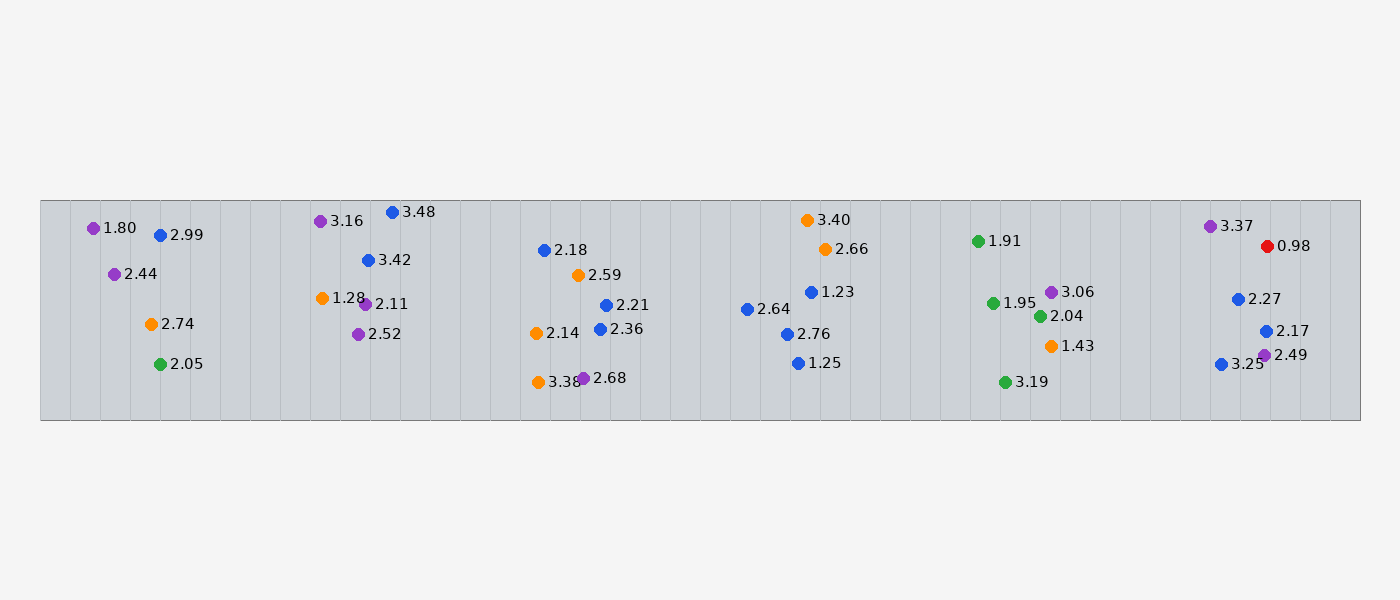
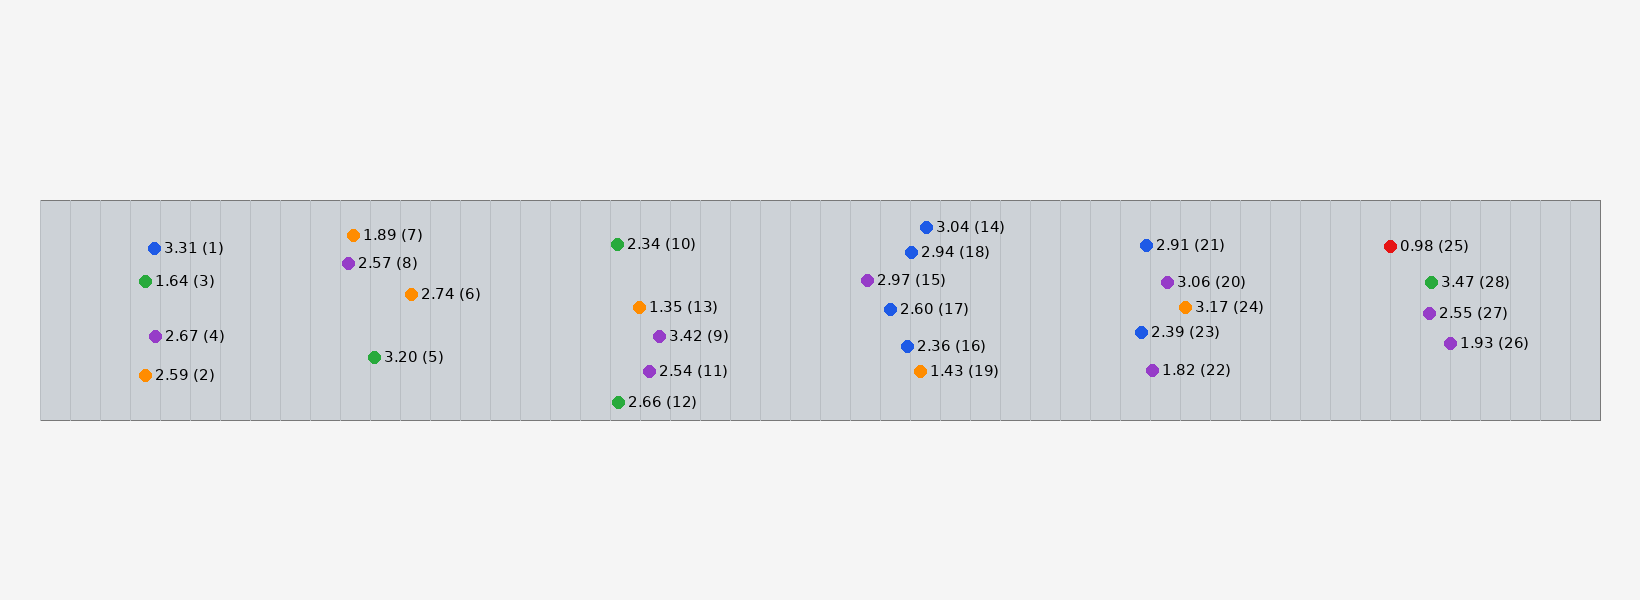
PostFX2D: roll back clean mode; parse parenthesized index into its own column
- Remove erase-non-minimum option (quality not sufficient)
- Keep label-to-point pairing fix (edge-midpoint distance)
- '(n)' in labels is parsed as index; summary column '그룹 최대' replaced by '인덱스'
- Sample image labels now include index; self-test checks index reading

Claude-Session: https://claude.ai/code/session_01WXaUVbhgdokowSVm3PfoQF

diff --git a/postfx2d/postfx2d/core.py b/postfx2d/postfx2d/core.py
@@ -48,7 +48,6 @@ class Settings:
     group_alpha: float = 0.18
     highlight_alpha: float = 0.45
     pad: int = 14
-    clean: bool = False             # True = 최소 지점 외 점/숫자 지우기
 
 
 @dataclass
@@ -58,6 +57,7 @@ class Point:
     y: float
     r: float
     value: float | None = None
+    index: int | None = None
     text: str = ""
     text_box: tuple[int, int, int, int] | None = None  # x0,y0,x1,y1
     group: int = -1
@@ -116,31 +116,71 @@ def _get_ocr():
     return _ocr_engine
 
 
-def read_numbers(img: np.ndarray) -> list[tuple[float, str, tuple[int, int, int, int]]]:
-    """이미지 안의 숫자 텍스트 → (값, 원문, box). 작은 글씨 대비 2배 확대 후 인식."""
+IDX_RE = re.compile(r"[(\[{]\s*(\d+)\s*[)\]}]?|(?:(?<=\s)|^)(\d+)\s*[)\]}]")
+
+
+def parse_label(text: str) -> tuple[float | None, int | None]:
+    """'1.28 (12)' → (1.28, 12). 괄호 안 숫자 = 인덱스, 나머지 숫자 = 안전율."""
+    t = text.strip().replace("O", "0").replace("o", "0")
+    idx = None
+    m = IDX_RE.search(t)
+    if m:
+        idx = int(m.group(1) or m.group(2))
+        t = t[:m.start()] + " " + t[m.end():]
+    t = re.sub(r"(?<=[\d.,])\s+(?=[\d.,])", "", t)   # '1. 28' 처럼 쪼개진 숫자 붙이기
+    val = None
+    for v in NUM_RE.finditer(t):
+        try:
+            val = float(v.group().replace(",", "."))
+            break
+        except ValueError:
+            pass
+    return val, idx
+
+
+def read_numbers(img: np.ndarray) -> list[dict]:
+    """이미지 안의 라벨 → [{value, index, text, box}]. 작은 글씨 대비 2배 확대 후 인식."""
     scale = 2.0 if max(img.shape[:2]) < 2500 else 1.0
     big = cv2.resize(img, None, fx=scale, fy=scale, interpolation=cv2.INTER_CUBIC)
     res = _get_ocr()(big)
     res = res[0] if isinstance(res, tuple) else res
-    out = []
+    items = []
     for box, text, conf in res or []:
-        t = text.replace(" ", "").replace("O", "0").replace("o", "0")
-        for m in NUM_RE.finditer(t):
-            try:
-                val = float(m.group().replace(",", "."))
-            except ValueError:
+        val, idx = parse_label(text)
+        if val is None and idx is None:
+            continue
+        xs = [p[0] / scale for p in box]
+        ys = [p[1] / scale for p in box]
+        items.append({"value": val, "index": idx, "text": text.strip(),
+                      "box": (int(min(xs)), int(min(ys)), int(max(xs)), int(max(ys)))})
+    # OCR 이 '(12)' 를 따로 떼어 읽은 경우 → 같은 줄의 가장 가까운 값 라벨에 합침
+    vals = [it for it in items if it["value"] is not None]
+    for it in [it for it in items if it["value"] is None]:
+        x0, y0, x1, y1 = it["box"]
+        h = y1 - y0
+        best, bd = None, 3 * max(h, 8)
+        for v in vals:
+            if v["index"] is not None:
                 continue
-            xs = [p[0] / scale for p in box]
-            ys = [p[1] / scale for p in box]
-            out.append((val, m.group(), (int(min(xs)), int(min(ys)), int(max(xs)), int(max(ys)))))
-            break
-    return out
+            vx0, vy0, vx1, vy1 = v["box"]
+            if min(y1, vy1) - max(y0, vy0) < 0.4 * min(h, vy1 - vy0):
+                continue                          # 같은 줄 아님
+            d = max(x0 - vx1, vx0 - x1, 0)
+            if d < bd:
+                best, bd = v, d
+        if best:
+            best["index"] = it["index"]
+            best["text"] += " " + it["text"]
+            bx = best["box"]
+            best["box"] = (min(bx[0], x0), min(bx[1], y0), max(bx[2], x1), max(bx[3], y1))
+    return vals
 
 
-def pair_numbers(points: list[Point], nums) -> None:
-    """각 숫자를 가장 가까운 점에 1:1 매칭(가까운 쌍부터 탐욕적)."""
+def pair_numbers(points: list[Point], nums: list[dict]) -> None:
+    """각 라벨을 가장 가까운 점에 1:1 매칭(가까운 쌍부터 탐욕적)."""
     cands = []
-    for ni, (_, _, (x0, y0, x1, y1)) in enumerate(nums):
+    for ni, it in enumerate(nums):
+        x0, y0, x1, y1 = it["box"]
         # 라벨은 점 옆에 붙으므로, 박스 네 변의 중점까지 거리로 판단
         # (숫자 위에 겹쳐 찍힌 다른 점이 잘못 매칭되는 것 방지)
         cy, cx = (y0 + y1) / 2, (x0 + x1) / 2
@@ -156,8 +196,8 @@ def pair_numbers(points: list[Point], nums) -> None:
         p = points[pi]
         if d > max(70, p.r * 14):
             continue
-        val, text, box = nums[ni]
-        p.value, p.text, p.text_box = val, text, box
+        it = nums[ni]
+        p.value, p.index, p.text, p.text_box = it["value"], it["index"], it["text"], it["box"]
         used_n.add(ni)
         used_p.add(pi)
 
@@ -255,42 +295,7 @@ def _label(img, text, org, color):
     cv2.putText(img, text, (x, y - 1), font, sc, color, th, cv2.LINE_AA)
 
 
-def _targets(g):
-    """그룹의 하이라이트 대상: 빨간 점이 있으면 그것, 없으면 최소값 점(동률 전부)."""
-    glob = [p for p in g if p.cls == "GLOBAL"]
-    if glob:
-        return glob
-    vals = [p.value for p in g if p.value is not None]
-    return [p for p in g if vals and p.value == min(vals)]
-
-
-def _ink_mask(shape, points, grow=3):
-    m = np.zeros(shape[:2], np.uint8)
-    for p in points:
-        cv2.circle(m, (int(p.x), int(p.y)), int(p.r) + grow, 255, -1)
-        if p.text_box:
-            x0, y0, x1, y1 = p.text_box
-            cv2.rectangle(m, (x0 - grow, y0 - grow), (x1 + grow, y1 + grow), 255, -1)
-    return m
-
-
-def erase_points(img, points, keep=()):
-    """점 + 숫자 영역을 주변 배경으로 메움(inpaint). keep 영역은 보호."""
-    m = _ink_mask(img.shape, points, 3)
-    if keep:
-        m[_ink_mask(img.shape, keep, 1) > 0] = 0
-    if not m.any():
-        return img.copy()
-    return cv2.inpaint(img, m, 3, cv2.INPAINT_TELEA)
-
-
 def render(img, groups, s: Settings):
-    keep = [p for g in groups for p in _targets(g)]
-    if s.clean:
-        others = [p for g in groups for p in g if p not in keep]
-        orig, img = img, erase_points(img, others, keep)
-    else:
-        orig = img
     out = img.copy()
     # 그룹 음영
     gmasks = []
@@ -303,7 +308,11 @@ def render(img, groups, s: Settings):
         gmasks.append((m, dark))
     # 하이라이트
     for g in groups:
-        for p in _targets(g):
+        vals = [p.value for p in g if p.value is not None]
+        has_global = any(p.cls == "GLOBAL" for p in g)
+        targets = [p for p in g if p.cls == "GLOBAL"] if has_global else \
+                  ([p for p in g if p.value == min(vals)] if vals else [])
+        for p in targets:
             glob = p.cls == "GLOBAL"
             color = GLOBAL_HL if glob else LOCAL_HL
             m = np.zeros(out.shape[:2], np.uint8)
@@ -315,29 +324,14 @@ def render(img, groups, s: Settings):
             _outline(out, m, color, 3 if glob else 2)
     # 원본 점/숫자(잉크)가 음영에 묻히지 않도록 원본 픽셀 복원
     roi = np.zeros(img.shape[:2], np.uint8)
-    for p in (keep if s.clean else [p for g in groups for p in g]):
-        x0, y0, x1, y1 = p.bbox()
-        cv2.rectangle(roi, (x0 - 2, y0 - 2), (x1 + 2, y1 + 2), 255, -1)
+    for g in groups:
+        for p in g:
+            x0, y0, x1, y1 = p.bbox()
+            cv2.rectangle(roi, (x0 - 2, y0 - 2), (x1 + 2, y1 + 2), 255, -1)
     gray = cv2.cvtColor(img, cv2.COLOR_BGR2GRAY)
     sat = cv2.cvtColor(img, cv2.COLOR_BGR2HSV)[..., 1]
     ink = (roi > 0) & ((gray < 120) | (sat > 90))
-    if s.clean:   # 남길 점/숫자는 원본에서 그대로 복원 (겹친 다른 점 잔상 방지)
-        km = _ink_mask(img.shape, keep, 1) > 0
-        gray = cv2.cvtColor(orig, cv2.COLOR_BGR2GRAY)
-        sat = cv2.cvtColor(orig, cv2.COLOR_BGR2HSV)[..., 1]
-        ink = km & ((gray < 120) | (sat > 90))
-        dots = np.zeros(img.shape[:2], np.uint8)
-        for p in keep:
-            cv2.circle(dots, (int(p.x), int(p.y)), int(p.r) + 1, 255, -1)
-        ink &= ~((sat > 90) & (dots == 0))    # 다른 색 점 잔상 제외, 숫자는 유지
-        others = [p for g in groups for p in g if p not in keep]
-        for p in others:                       # 겹친 다른 점 자리는 복원하지 않음
-            oc = np.zeros(img.shape[:2], np.uint8)
-            cv2.circle(oc, (int(p.x), int(p.y)), int(p.r) + 2, 255, -1)
-            ink &= ~((oc > 0) & (dots == 0))
-        out[ink] = orig[ink]
-    else:
-        out[ink] = img[ink]
+    out[ink] = img[ink]
     # 그룹 번호
     for gi, (g, (m, dark)) in enumerate(zip(groups, gmasks), 1):
         ys, xs = np.nonzero(m)
@@ -361,6 +355,9 @@ def process(img: np.ndarray, s: Settings | None = None, ocr=True) -> Result:
     groups = group_points(pts, gap)
     if sum(p.cls == "GLOBAL" for p in pts) == 0:
         warnings.append("빨간 점(Global Minimum)을 찾지 못했습니다.")
+    noidx = sum(p.value is not None and p.index is None for p in pts)
+    if noidx:
+        warnings.append(f"인덱스(괄호 숫자)를 읽지 못한 점 {noidx}개")
     miss = sum(p.value is None for p in pts)
     if miss:
         warnings.append(f"숫자를 읽지 못한 점 {miss}개 (표에서 직접 수정 가능)")
@@ -391,11 +388,11 @@ def summarize(groups) -> list[dict]:
                 "구분": "Global Min" if p.cls == "GLOBAL" else p.cls,
                 "하이라이트": "글로벌" if p.cls == "GLOBAL" else "국소",
                 "X(px)": int(p.x), "Y(px)": int(p.y),
-                "그룹 최대": max(vals) if vals else "",
+                "인덱스": "" if p.index is None else p.index,
             })
         if not mins:
             rows.append({"그룹": f"G{gi}", "점 개수": len(g), "최소 안전율": "",
-                         "구분": "", "하이라이트": "", "X(px)": "", "Y(px)": "", "그룹 최대": ""})
+                         "구분": "", "하이라이트": "", "X(px)": "", "Y(px)": "", "인덱스": ""})
     return rows
 
 

diff --git a/postfx2d/postfx2d/gui.py b/postfx2d/postfx2d/gui.py
@@ -85,9 +85,6 @@ class App(tk.Tk):
         st.configure("TNotebook", background=PANEL, borderwidth=0)
         st.configure("TNotebook.Tab", background=PANEL, foreground=MUTED, padding=(14, 6))
         st.map("TNotebook.Tab", background=[("selected", CARD)], foreground=[("selected", FG)])
-        st.configure("TCheckbutton", background=PANEL, foreground=FG, indicatorcolor=CARD)
-        st.map("TCheckbutton", background=[("active", PANEL)],
-               indicatorcolor=[("selected", ACCENT)])
         st.configure("Horizontal.TProgressbar", background=ACCENT, troughcolor=CARD, borderwidth=0)
 
     # ------------------------------------------------------------ layout
@@ -131,9 +128,6 @@ class App(tk.Tk):
         self._slider(side, "하이라이트 농도", self.v_halpha, 0.2, 0.8)
         self.v_pad = tk.IntVar(value=14)
         self._spin(side, "음영 여백 (px)", self.v_pad, 2, 60)
-        self.v_clean = tk.BooleanVar(value=False)
-        ttk.Checkbutton(side, text="최소 지점 외 점·숫자 지우기", variable=self.v_clean,
-                        command=self.redraw).pack(anchor="w", pady=(6, 0))
 
         self.btn_run = ttk.Button(side, text="▶  분석 실행", style="Accent.TButton",
                                   command=self.run)
@@ -180,9 +174,9 @@ class App(tk.Tk):
         tables = ttk.Notebook(main, height=210)
         tables.pack(fill="x", pady=(12, 0))
         self.tree_sum = self._tree(tables, ["그룹", "점 개수", "최소 안전율", "구분",
-                                            "하이라이트", "X(px)", "Y(px)", "그룹 최대"])
+                                            "하이라이트", "X(px)", "Y(px)", "인덱스"])
         tables.add(self.tree_sum.master, text="  요약 (그룹별 최소)  ")
-        self.tree_pts = self._tree(tables, ["#", "그룹", "구분", "안전율", "X(px)", "Y(px)"])
+        self.tree_pts = self._tree(tables, ["#", "그룹", "구분", "안전율", "인덱스", "X(px)", "Y(px)"])
         tables.add(self.tree_pts.master, text="  전체 점  (더블클릭: 값 수정)  ")
         self.tree_pts.bind("<Double-1>", self._edit_value)
 
@@ -261,8 +255,7 @@ class App(tk.Tk):
         return core.Settings(group_count=int(self.v_count.get() or 0),
                              group_alpha=float(self.v_galpha.get()),
                              highlight_alpha=float(self.v_halpha.get()),
-                             pad=int(self.v_pad.get()),
-                             clean=bool(self.v_clean.get()))
+                             pad=int(self.v_pad.get()))
 
     def run(self):
         if self.src is None:
@@ -325,7 +318,8 @@ class App(tk.Tk):
                 self._pt_index.append(p)
                 self.tree_pts.insert("", "end", iid=str(i - 1), values=[
                     i, f"G{p.group}", "Global" if p.cls == "GLOBAL" else p.cls,
-                    "" if p.value is None else p.value, int(p.x), int(p.y)],
+                    "" if p.value is None else p.value,
+                    "" if p.index is None else p.index, int(p.x), int(p.y)],
                     tags=("global",) if p.cls == "GLOBAL" else ())
 
     def _edit_value(self, event):

diff --git a/postfx2d/tools/make_sample.py b/postfx2d/tools/make_sample.py
@@ -20,7 +20,7 @@ def font(size):
 
 def main(out="sample.png", seed=3):
     rnd = random.Random(seed)
-    W, H = 1400, 600
+    W, H = 1640, 600
     im = Image.new("RGB", (W, H), (245, 245, 245))
     d = ImageDraw.Draw(im)
     # 해석 모델처럼 보이는 회색 형상 + 메쉬 선
@@ -28,14 +28,15 @@ def main(out="sample.png", seed=3):
     for x in range(40, W - 40, 30):
         d.line((x, 200, x, 420), fill=(185, 190, 195))
     f = font(15)
-    centers = [(140, 300), (360, 280), (580, 320), (800, 290), (1020, 310), (1240, 300)]
+    idx = 0
+    centers = [(140, 300), (400, 280), (660, 320), (920, 290), (1180, 310), (1440, 300)]
     for gi, (cx, cy) in enumerate(centers, 1):
-        n = rnd.randint(4, 7)
+        n = rnd.randint(4, 6)
         used = []
         for k in range(n):
             while True:
-                x, y = cx + rnd.randint(-55, 35), cy + rnd.randint(-75, 75)
-                if all(abs(x - a) > 40 or abs(y - b) > 22 for a, b in used):
+                x, y = cx + rnd.randint(-55, 15), cy + rnd.randint(-85, 85)
+                if all(abs(x - a) > 75 or abs(y - b) > 24 for a, b in used):
                     break
             used.append((x, y))
             cls = rnd.choice(["W1", "W2", "W3", "W4"])
@@ -44,7 +45,8 @@ def main(out="sample.png", seed=3):
                 cls, val = "GLOBAL", 0.98
             r = 6
             d.ellipse((x - r, y - r, x + r, y + r), fill=COLORS[cls])
-            d.text((x + 10, y - 9), f"{val:.2f}", fill=(0, 0, 0), font=f)
+            idx += 1
+            d.text((x + 10, y - 9), f"{val:.2f} ({idx})", fill=(0, 0, 0), font=f)
     im.save(out)
     print("saved", out)
 

diff --git a/postfx2d/run_app.py b/postfx2d/run_app.py
@@ -13,8 +13,9 @@ def selftest(inp, out):
     core.save_csv(res.rows, out.rsplit(".", 1)[0] + "_summary.csv")
     glob = sum(r["하이라이트"] == "글로벌" for r in res.rows)
     vals = sum(p.value is not None for p in res.points)
-    ok = len(res.groups) == 6 and glob == 1 and vals == len(res.points)
-    report = (f"groups={len(res.groups)} global={glob} read={vals}/{len(res.points)} "
+    idx = sum(p.index is not None for p in res.points)
+    ok = len(res.groups) == 6 and glob == 1 and vals == idx == len(res.points)
+    report = (f"groups={len(res.groups)} global={glob} read={vals}/{len(res.points)} index={idx} "
               f"warnings={res.warnings}\n" + "\n".join(map(str, res.rows)))
     if sys.stdout:                     # 창 모드 exe 에서는 stdout 이 없음
         try:

diff --git a/postfx2d/cli.py b/postfx2d/cli.py
@@ -8,10 +8,9 @@ ap = argparse.ArgumentParser(description="최소안전율부위 후처리")
 ap.add_argument("input")
 ap.add_argument("output", nargs="?")
 ap.add_argument("--groups", type=int, default=0, help="그룹 수 (0=자동)")
-ap.add_argument("--clean", action="store_true", help="최소 지점 외 점/숫자 지우기")
 a = ap.parse_args()
 out = a.output or os.path.splitext(a.input)[0] + "_minSF.png"
-res = core.process(core.imread(a.input), core.Settings(group_count=a.groups, clean=a.clean))
+res = core.process(core.imread(a.input), core.Settings(group_count=a.groups))
 core.imwrite(out, res.image)
 core.save_csv(res.rows, os.path.splitext(out)[0] + "_summary.csv")
 for r in res.rows:

diff --git a/postfx2d/README.md b/postfx2d/README.md
@@ -22,11 +22,9 @@
 
 출력: `이름_minSF.png` + `이름_minSF_summary.csv` (Excel 호환 UTF-8)
 
-| 원본(합성 샘플) | 결과 | 결과 (정리 모드) |
-|---|---|---|
-| ![](tools/sample.png) | ![](docs/sample_result.png) | ![](docs/sample_result_clean.png) |
-
-**정리 모드** (`최소 지점 외 점·숫자 지우기` 체크 / CLI `--clean`): 하이라이트된 최소 지점만 남기고 나머지 점·숫자는 주변 배경으로 지워 음영만 남깁니다.
+| 원본(합성 샘플) | 결과 |
+|---|---|
+| ![](tools/sample.png) | ![](docs/sample_result.png) |
 
 ## 사용법 (exe)
 
